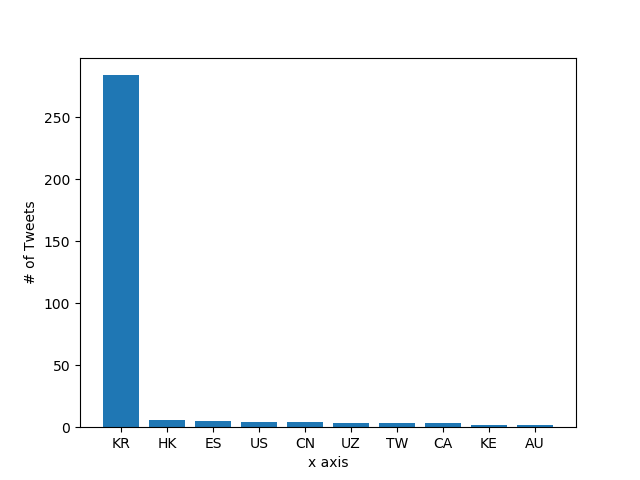
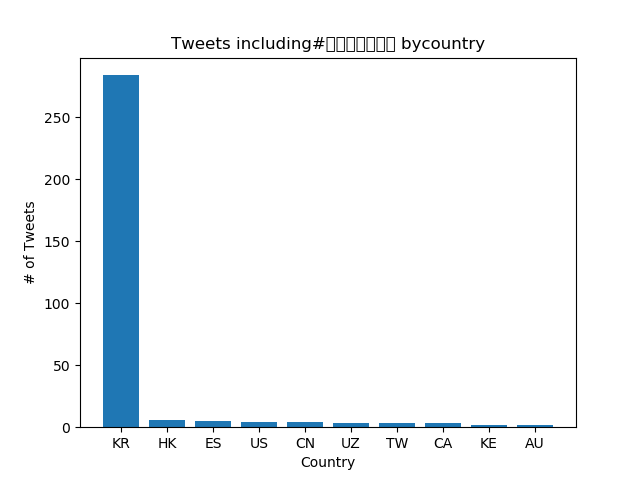
attempt 4

Changed region(s): [[0.2812, 0.0625, 0.75, 0.125], [0.4688, 0.9375, 0.5625, 1.0]]

diff --git a/src/visualize.py b/src/visualize.py
@@ -42,7 +42,16 @@ ind = np.arange(n)
 fig = plt.bar(ind, values)
 plt.ylabel('# of Tweets')
 plt.xticks(ind, keys)
-plt.xlabel('x axis')
+title = 'Tweets including'
+title += f'{args.key} by'
+if "country" in args.input_path:
+    title += 'country'
+    axis = 'Country'
+else:
+    title += 'language'
+    axis = 'Language'
+plt.title(title)
+plt.xlabel(axis)
 # fig, ax = plt.subplots(nrows=1, ncols=1)
 # ax.plot(keys[0:11], values[0:11])
 plt.savefig(f"./{args.input_path}_{args.key}_figure.png")
